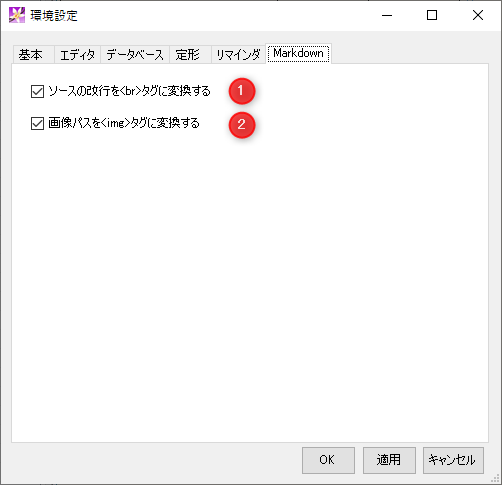
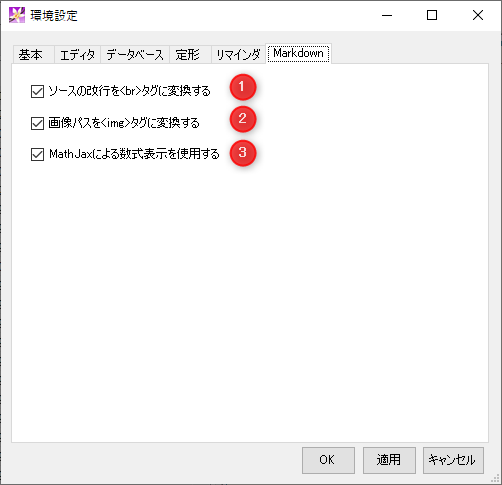
MathJaxによる数式表示対応

Changed region(s): [[0.0598, 0.1546, 0.5378, 0.3711]]

diff --git a/README.md b/README.md
@@ -1,6 +1,6 @@
 VaNT Document
 =================================
-![](./image/vant.png "VaNT") <span style="font-size: 150%;">VaNT ( *Vanilla Note Taker* ) </span>　Version 0.8.1[（更新履歴）](#9-更新履歴)[<font color="red">2020/04/30</font>]
+![](./image/vant.png "VaNT") <span style="font-size: 150%;">VaNT ( *Vanilla Note Taker* ) </span>　Version 0.8.2[（更新履歴）](#9-更新履歴)[<font color="red">2020/05/05</font>]
 
 
 ## 1．VaNTについて
@@ -319,8 +319,13 @@ Markdown形式の表（テーブル）内でTabキーを押すと、自動的に
 |--|--|
 |ソースの改行を`<br>`タグに変換する|エディタ上の改行を`<br>`に変換した上でMarkdown表示します。これによりMarkdownではない通常のテキストメモの改行位置がそのままHTMLにも反映されます。|
 |画像パスを`<img>`タグに変換する|画像添付機能によりエディタ上に貼り付けている画像ファイルへのパスを、実際の画像がHTML上に表示されるようにします。|
+|MathJaxによる数式表示を使用する|エディタ上に書かれた`$`～`$`または`$$`～`$$`で挟まれたTeX形式の数式を、Markdown表示時に組版された数式として表示します。<br/>インラインの数式は`$`～`$`、独立した数式だけの行にセンタリングして表示する場合は`$$`～`$$`で囲みます。ただし、MathJaxはCDNを利用しているため、インターネット未接続環境では本機能を利用できません。|
 
+以下は、MathJaxによる数式表示の例です。
 
+![MathJax1](./image/MathJax1.png "変換前") \
+これをMarkdown表示すると下図のようになります。\
+![MathJax2](./image/MathJax2.png "変換後")
 
 ### 5.14. インポート／エクスポート
 
@@ -434,6 +439,7 @@ Markdown形式の表（テーブル）内でTabキーを押すと、自動的に
 |---|---|---|
 |①|ソースの改行を`<br>`タグに変換する|チェックを入れると、Markdown形式ではないメモをMarkdown表示した際に改行位置をプレーンテキストと同じにする。|
 |②|画像パスを`<img>`タグに変換する|チェックを入れると、エディタ上に書かれた画像パスを、Markdown表示時に画像として実際の画面に表示する。|
+|③|MathJaxによる数式表示を使用する|チェックを入れると、エディタ上に書かれた`$`～`$`または`$$`～`$$`で挟まれたTeX形式の数式を、Markdown表示時に組版された数式として表示する。|
 
 ## 7．ショートカット一覧
 
@@ -475,6 +481,7 @@ Migemoを発案された高林哲さん、C/Migemoを開発され簡単に利用
 ## 9. 更新履歴
 |公開日|Ver.|内容|
 |---|---|---|
+|2020/05/05|v0.8.2|・ファイル添付、画像添付をUNC形式に対応。<br/>・Markdown表示でMathJaxによる数式表示をサポート。|
 |2020/04/30|v0.8.1|新規メモ作成時に新規メモが選択されない問題(v0.8.0のサイドエフェクト)を修正。|
 |2020/04/28|v0.8.0|・データベース周りの効率化。<br/>・すべてタブ、フィルタ系タブでタブ変更時に直前に表示していたメモの選択状態を保持するようにした。<br/>・エクスポートしたファイルでメモの時刻が24時間表示になっていなかった問題を修正。|
 |2020/03/14|v0.7.8|以下の問題を修正。<br/>・エディタのキーワードハイライトで大/小文字を区別しないようにした。<br/>・時刻フォーマットで「&apos;」「&quot;」をエスケープせずに使用可能とした。<br/>・ショートカットでタブを削除した場合に保護タブも消える問題を修正。<br/>・常に全面表示モード以外で、フォーカスが外れた際に画面透過が有効になる問題を修正。<br/>・ホットキーによる画面呼び出し時に稀にエラーが発生する問題を修正。|
